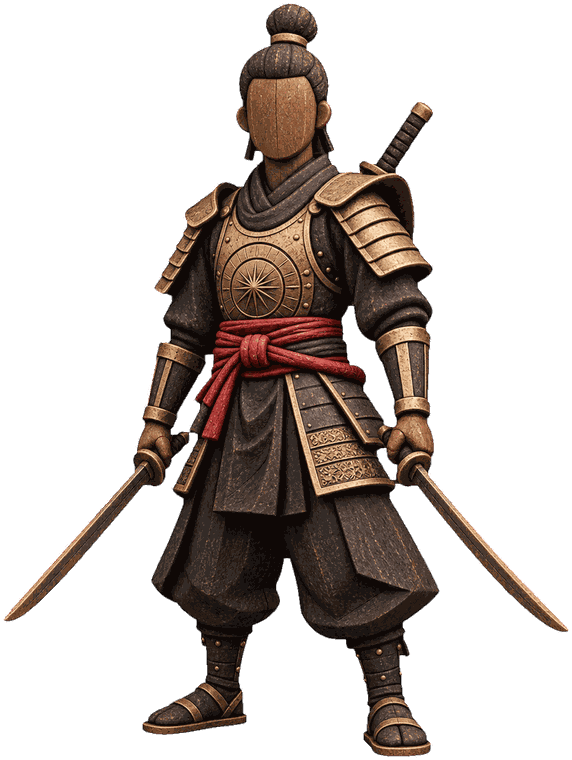
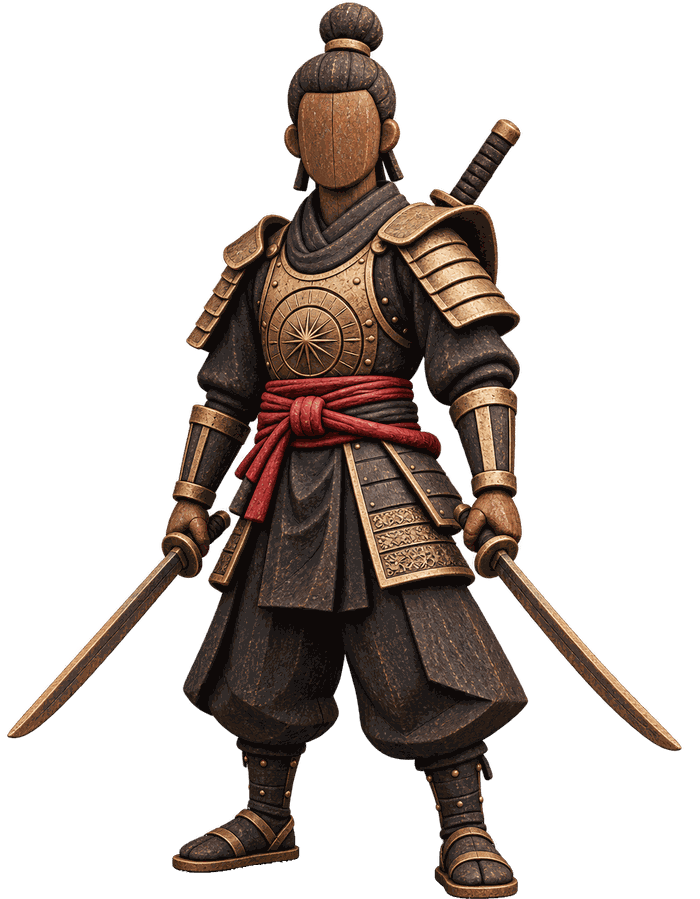
Swap standing Kenji art, add sword-tip lens flare, fix nav baseline
- Replace the standing Kenji popup art with the new two-sword pose, with its baked-in ground shadow cleanly removed (feet stay crisp)
- Drop the old CSS shadow ellipse now that the art needs none; align his feet exactly to the open dialogue box's bottom edge
- Add a periodic lens-flare gleam pinned to one sword tip
- Fix "the Museum" nav item so "Museum" sits on the same baseline as the other nav titles, with "the" as a true superscript above it

Changed region(s): [[0.0, 0.0, 1.0, 1.0], [0.3864, 0.7868, 0.4161, 0.8171]]

diff --git a/components/KenjiGuide.jsx b/components/KenjiGuide.jsx
@@ -99,21 +99,28 @@ export default function KenjiGuide() {
       {open && (
         <div className="flex items-end">
           {/* His full form, standing — appears only while the dialogue
-              is open, feet planted right in his own shadow (he's
-              standing on the ground here, not levitating the way the
-              meditating hero shot is). Hidden on the smallest phones,
-              where there isn't room beside the box. */}
+              is open, feet planted right at the bottom of the box
+              beside him. Hidden on the smallest phones, where there
+              isn't room beside the box. */}
           <div
             aria-hidden="true"
             className="relative hidden h-80 w-28 shrink-0 sm:block sm:h-[22rem] sm:w-32"
           >
-            <div className="absolute inset-x-8 -bottom-1 h-4 rounded-[50%] bg-black/70 blur-[3px] sm:inset-x-9" />
-            {/* eslint-disable-next-line @next/next/no-img-element */}
-            <img
-              src="/kenji-standing.png"
-              alt=""
-              className="absolute bottom-0 left-1/2 h-full w-auto -translate-x-1/2 object-contain drop-shadow-[0_10px_10px_rgba(0,0,0,0.35)]"
-            />
+            <div className="absolute bottom-0 left-1/2 h-full w-fit -translate-x-1/2">
+              {/* eslint-disable-next-line @next/next/no-img-element */}
+              <img
+                src="/kenji-standing.png"
+                alt=""
+                className="h-full w-auto object-contain drop-shadow-[0_10px_10px_rgba(0,0,0,0.35)]"
+              />
+              {/* A small gleam at the tip of his raised sword — mostly
+                  dormant, catching the light every few seconds. */}
+              <span
+                aria-hidden="true"
+                className="lens-flare pointer-events-none absolute h-5 w-5 -translate-x-1/2 -translate-y-1/2 sm:h-6 sm:w-6"
+                style={{ left: "97%", top: "83%" }}
+              />
+            </div>
           </div>
 
           <div

diff --git a/app/globals.css b/app/globals.css
@@ -1483,6 +1483,69 @@ html.header-raining .header-rain {
   animation: kenji-line-in 0.4s ease-out both;
 }
 
+/* A lens flare pinned to a sword tip — dormant most of the time, then
+   catches the light in a couple of quick pulses before fading back
+   out, rather than glowing continuously. */
+.lens-flare {
+  border-radius: 9999px;
+  background: radial-gradient(
+    circle,
+    rgba(255, 255, 255, 1) 0%,
+    rgba(255, 244, 214, 0.9) 18%,
+    rgba(255, 214, 130, 0.45) 40%,
+    rgba(255, 214, 130, 0) 72%
+  );
+  opacity: 0;
+  animation: lens-flare-gleam 6s ease-in-out infinite;
+}
+
+.lens-flare::before,
+.lens-flare::after {
+  content: "";
+  position: absolute;
+  top: 50%;
+  left: 50%;
+  background: linear-gradient(
+    90deg,
+    transparent,
+    rgba(255, 255, 255, 0.95),
+    transparent
+  );
+}
+
+.lens-flare::before {
+  width: 260%;
+  height: 1.5px;
+  transform: translate(-50%, -50%);
+}
+
+.lens-flare::after {
+  width: 1.5px;
+  height: 260%;
+  transform: translate(-50%, -50%);
+}
+
+@keyframes lens-flare-gleam {
+  0%,
+  85%,
+  100% {
+    opacity: 0;
+    transform: scale(0.5);
+  }
+  90% {
+    opacity: 1;
+    transform: scale(1.2);
+  }
+  93% {
+    opacity: 0.5;
+    transform: scale(0.85);
+  }
+  96% {
+    opacity: 1;
+    transform: scale(1);
+  }
+}
+
 @media (prefers-reduced-motion: reduce) {
   .kenji-bob {
     animation: none;
@@ -1493,5 +1556,9 @@ html.header-raining .header-rain {
   }
   .kenji-line {
     animation: none;
+  }
+  .lens-flare {
+    animation: none;
+    opacity: 0;
   }
 }

diff --git a/app/layout.jsx b/app/layout.jsx
@@ -358,8 +358,8 @@ export default function RootLayout({ children }) {
                   Portfolio
                 </Link>
 
-                <Link href="/design" className="relative inline-block pt-2.5 leading-none hover:text-accent">
-                  <span className="absolute left-0 top-0 whitespace-nowrap text-[8px] normal-case tracking-normal">
+                <Link href="/design" className="relative hover:text-accent">
+                  <span className="absolute -top-2 left-0 whitespace-nowrap text-[8px] normal-case tracking-normal">
                     the
                   </span>
                   Museum
@@ -475,8 +475,8 @@ export default function RootLayout({ children }) {
             <Link href="/portfolio" className="hover:text-accent">
               Portfolio
             </Link>
-            <Link href="/design" className="relative inline-block pt-2.5 leading-none hover:text-accent">
-              <span className="absolute left-0 top-0 whitespace-nowrap text-[8px] normal-case tracking-normal">
+            <Link href="/design" className="relative hover:text-accent">
+              <span className="absolute -top-2 left-0 whitespace-nowrap text-[8px] normal-case tracking-normal">
                 the
               </span>
               Museum
